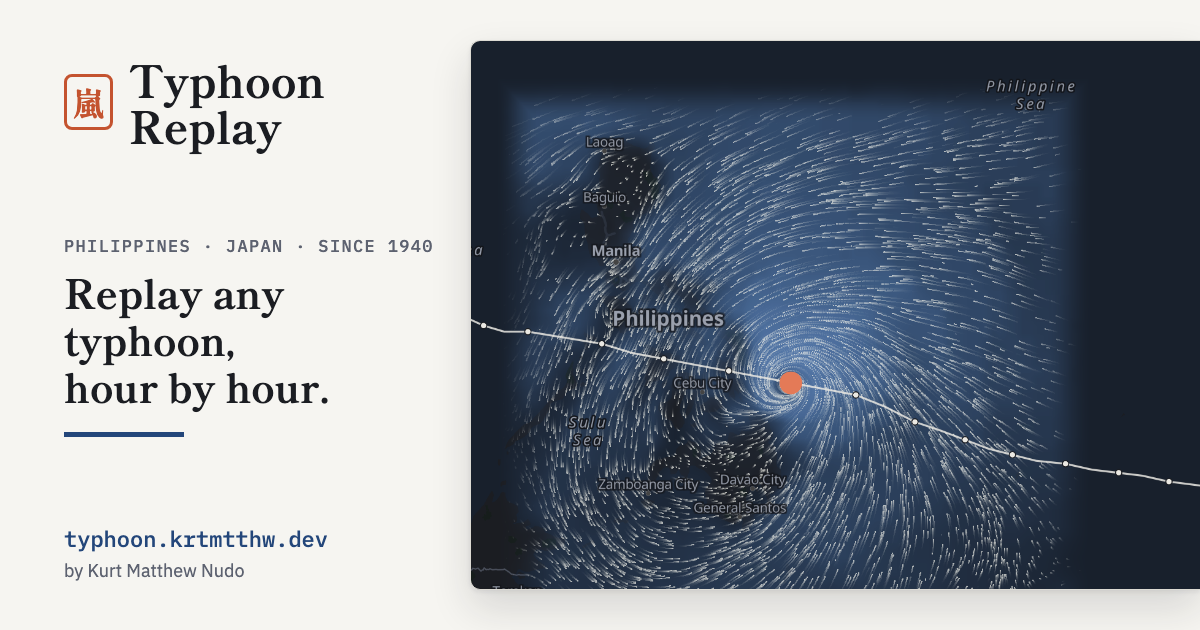
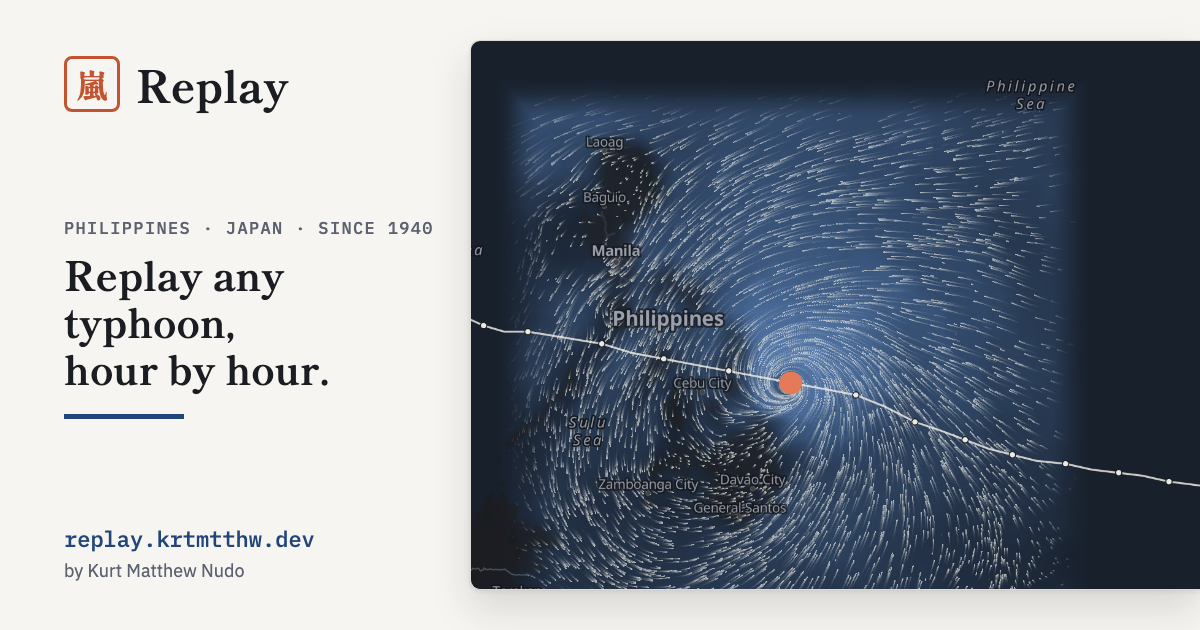
Replay: rename, new domain replay.krtmtthw.dev, Akari 0.7.0 unified Header
- The product is "Replay" everywhere visitors see it: header brand, page titles, share
  shells (og:site_name, og:title), About, the storm eyebrow, the boot error, READMEs and
  the dataset card. The seal stays 嵐.
- Canonical site is https://replay.krtmtthw.dev (config.json siteUrl, the config default
  and stamp-shells' fallback), so canonical, og:url, og:image and the sitemap follow.
- og-card.png is the new Replay share card.
- @abrycta/akari 0.7.0: Akari's Header unmodified (data-only brand and nav, portfolio
  link, EN/日本語, theme and contrast built in). The second phone nav row, the local
  portfolio link and the hand-placed toggles are gone. Router links render through a
  createLink anchor so only the Header's `current` sets aria-current: exactly one nav
  item is current (storm pages count as Storms) and the brand link never gets one.
- Storm pages: an unnamed storm's title and breadcrumb no longer repeat the year
  ("Unnamed storm · Feb 1940", not "… Feb 1940 1940").
- e2e: role-based header queries, header[data-akari-header] count 1, one current nav
  item, the new name, canonical and og tags.

Changed region(s): [[0.0308, 0.3317, 0.37, 0.6937], [0.0308, 0.0905, 0.2775, 0.2413], [0.0617, 0.8444, 0.2775, 0.8746]]

diff --git a/web/src/app/Shell.tsx b/web/src/app/Shell.tsx
@@ -1,8 +1,7 @@
-import { AppShell, ContrastToggle, Header, LangSwitch, Logo, ThemeToggle, useLang } from "@abrycta/akari/react";
+import { AppShell, Header, useLang } from "@abrycta/akari/react";
 import { Trans, useLingui } from "@lingui/react/macro";
-import { Link, useLocation } from "@tanstack/react-router";
-import { ArrowLeftIcon } from "lucide-react";
-import { type ReactNode, useEffect } from "react";
+import { createLink, Link, useLocation } from "@tanstack/react-router";
+import { type ComponentProps, type ReactNode, useEffect } from "react";
 
 import { Attribution, DataAsOf } from "@/features/dataset-info";
 import { buildInfo, formatBuildInfo } from "@/shared/lib/build-info";
@@ -18,82 +17,34 @@ function useGlobalParams() {
   }, [search.lang, setLang]);
 }
 
-/** Back to the author's portfolio, in the same tab. The visible text is the host; screen readers also hear whose site it is. */
-function PortfolioLink({ className }: { className?: string }) {
-  const { t } = useLingui();
-  return (
-    <a href={PORTFOLIO_URL} className={className} data-testid="portfolio-link">
-      <ArrowLeftIcon aria-hidden="true" className="size-3.5" />
-      {PORTFOLIO_HOST}
-      <span className="sr-only"> ({t`${AUTHOR}'s portfolio`})</span>
-    </a>
-  );
-}
-
-const NAV_LINK = "rounded-sm px-1 py-0.5 whitespace-nowrap hover:text-foreground [&.active]:text-foreground [&.active]:underline underline-offset-4";
-const PORTFOLIO_LINK = "items-center gap-1 rounded-sm px-1 py-0.5 text-xs whitespace-nowrap text-muted-foreground underline-offset-4 hover:text-foreground hover:underline";
+/**
+ * The anchor behind Akari's Header links: TanStack's <Link> marks every matching link aria-current="page"
+ * (the brand link too) and adds an "active" class, so the Header's own `current` flag wins here: exactly one nav item is current.
+ */
+const HeaderAnchor = createLink(({ current, ...props }: ComponentProps<"a"> & { current?: "page" }) => <a {...props} aria-current={current} />);
 
 export function Shell({ children }: { children: ReactNode }) {
   const { t } = useLingui();
   useGlobalParams();
-  // TanStack's <Link> sets aria-current="page" and the "active" class on the current section.
-  const links = (
-    <>
-      <Link to="/" activeOptions={{ exact: true }} className={NAV_LINK} data-testid="nav-home">
-        {t`Home`}
-      </Link>
-      <Link to="/storms" className={NAV_LINK}>
-        {t`Storms`}
-      </Link>
-      <Link to="/compare" className={NAV_LINK}>
-        {t`Compare`}
-      </Link>
-      <Link to="/town" className={NAV_LINK}>
-        {t`My town`}
-      </Link>
-      <Link to="/about" className={NAV_LINK}>
-        {t`About`}
-      </Link>
-      <Link to="/under-the-hood" className={NAV_LINK}>
-        {t`Under the hood`}
-      </Link>
-    </>
-  );
+  const path = useLocation({ select: (l) => l.pathname });
   return (
     <AppShell
       header={
-        <>
-          <Header
-            brand={
-              <>
-                {/* Accessible name "Typhoon Replay home": the visible wordmark plus a screen-reader suffix (label-in-name). */}
-                <Link to="/" activeOptions={{ exact: true }} className="rounded-sm" data-testid="brand-home">
-                  <Logo name="Typhoon Replay" glyph="嵐" size="sm" />
-                  <span className="sr-only"> {t({ message: "home", context: "brand link suffix" })}</span>
-                </Link>
-                {/* A labelled <nav> of our own (Akari's children slot renders an unlabelled one). Below md the row underneath takes over. */}
-                <nav aria-label={t`Main`} className="hidden items-center gap-4 text-sm text-muted-foreground md:flex">
-                  {links}
-                </nav>
-              </>
-            }
-            actions={
-              <>
-                <PortfolioLink className={`${PORTFOLIO_LINK} hidden md:inline-flex`} />
-                <ThemeToggle variant="compact" />
-                <ContrastToggle />
-                <LangSwitch />
-              </>
-            }
-          />
-          {/* Akari's header row does not wrap its nav, so on small screens the links get their own row. */}
-          <div className="flex flex-wrap items-center justify-between gap-x-4 gap-y-1 border-b border-border px-4 py-2 md:hidden">
-            <nav aria-label={t`Main`} className="flex flex-wrap gap-x-4 gap-y-1 text-sm text-muted-foreground">
-              {links}
-            </nav>
-            <PortfolioLink className={`${PORTFOLIO_LINK} inline-flex`} />
-          </div>
-        </>
+        <Header
+          brand={{ name: "Replay", glyph: "嵐", href: "/", srSuffix: t({ message: "home", context: "brand link suffix" }) }}
+          navLabel={t`Main`}
+          nav={[
+            { href: "/", label: t`Home`, current: path === "/" },
+            { href: "/storms", label: t`Storms`, current: path.startsWith("/storms") || path.startsWith("/storm/") },
+            { href: "/compare", label: t`Compare`, current: path.startsWith("/compare") },
+            { href: "/town", label: t`My town`, current: path.startsWith("/town") },
+            { href: "/about", label: t`About`, current: path.startsWith("/about") },
+            { href: "/under-the-hood", label: t`Under the hood`, current: path.startsWith("/under-the-hood") },
+          ]}
+          portfolioLink
+          languages
+          renderLink={({ href, "aria-current": current, ...p }) => <HeaderAnchor to={href} activeProps={{}} current={current} {...p} />}
+        />
       }
       footer={
         <footer className="border-t border-border">

diff --git a/web/e2e/navigation.spec.ts b/web/e2e/navigation.spec.ts
@@ -10,23 +10,28 @@ const PAGES = [
   { name: "town", path: "/town", current: "My town" },
   { name: "under the hood", path: "/under-the-hood", current: "Under the hood" },
   { name: "about", path: "/about", current: "About" },
-  { name: "storm", path: `/storm/${HAIYAN}?t=${PEAK}`, current: undefined },
+  { name: "storm", path: `/storm/${HAIYAN}?t=${PEAK}`, current: "Storms" },
   { name: "404", path: "/no/such/page", current: undefined },
 ];
 
 for (const p of PAGES) {
   test(`${p.name}: brand and Home go to /, portfolio links to krtmtthw.dev`, async ({ page }) => {
     await page.goto(p.path);
+    // Akari's unified Header, exactly once (a hand-rolled header would fail here).
+    await expect(page.locator("header[data-akari-header]")).toHaveCount(1);
     const header = page.getByRole("banner");
-    const nav = page.getByRole("navigation", { name: "Main" });
+    await expect(header).toHaveAttribute("data-akari-header", "");
+    const nav = header.getByRole("navigation", { name: "Main" });
     await expect(nav).toBeVisible();
 
-    const brand = header.getByRole("link", { name: "Typhoon Replay home" });
+    const brand = header.getByRole("link", { name: "Replay home" });
     await expect(brand).toHaveAttribute("href", "/");
     await expect(nav.getByRole("link", { name: "Home", exact: true })).toHaveAttribute("href", "/");
 
-    // aria-current marks exactly the active section (none on storm pages and the 404).
+    // aria-current marks exactly the active section (storm pages count as Storms; none on the 404), and only in the
+    // nav: the brand link never gets a second one from the router.
     const current = nav.locator('[aria-current="page"]');
+    await expect(header.locator('[aria-current="page"]')).toHaveCount(p.current ? 1 : 0);
     if (p.current) {
       await expect(current).toHaveCount(1);
       await expect(current).toHaveText(p.current);
@@ -37,7 +42,7 @@ for (const p of PAGES) {
     const portfolio = header.getByRole("link", { name: /krtmtthw\.dev/ });
     await expect(portfolio).toHaveAttribute("href", PORTFOLIO);
     await expect(portfolio).not.toHaveAttribute("target", /.+/); // same tab
-    await expect(portfolio).toHaveAccessibleName(/Kurt Matthew Nudo's portfolio/);
+    await expect(portfolio).toHaveAccessibleName(/Kurt's portfolio/);
     const footer = page.getByRole("contentinfo");
     await expect(footer).toContainText("A project by Kurt Matthew Nudo · krtmtthw.dev");
     await expect(footer.getByRole("link", { name: "Kurt Matthew Nudo · krtmtthw.dev" })).toHaveAttribute("href", PORTFOLIO);
@@ -99,12 +104,12 @@ test("every API blocked: the town page still works and has the header nav", asyn
 test("Japanese: home, breadcrumbs and portfolio links are translated", async ({ page }) => {
   await page.goto(`/storm/${HAIYAN}?lang=ja`);
   await expect(page.locator("html")).toHaveAttribute("lang", "ja");
-  await expect(page.getByRole("link", { name: "Typhoon Replay ホーム" })).toHaveAttribute("href", "/");
+  await expect(page.getByRole("banner").getByRole("link", { name: "Replay ホーム" })).toHaveAttribute("href", "/");
   const crumbs = page.getByRole("navigation", { name: "パンくずリスト" });
   await expect(crumbs.getByRole("link", { name: "ホーム", exact: true })).toHaveAttribute("href", "/");
   await expect(crumbs.getByRole("link", { name: "台風", exact: true })).toHaveAttribute("href", "/storms");
   await expect(page.getByRole("link", { name: "台風の一覧に戻る" })).toBeVisible();
-  await expect(page.getByRole("banner").getByRole("link", { name: /Kurt Matthew Nudo のポートフォリオ/ })).toHaveAttribute("href", PORTFOLIO);
+  await expect(page.getByRole("banner").getByRole("link", { name: /Kurtのポートフォリオ/ })).toHaveAttribute("href", PORTFOLIO);
   await expect(page.getByRole("contentinfo")).toContainText("制作: Kurt Matthew Nudo · krtmtthw.dev");
 });
 
@@ -139,7 +144,7 @@ test.describe("360 px", () => {
       await page.waitForLoadState("networkidle");
       const nav = page.getByRole("navigation", { name: lang === "ja" ? "メイン" : "Main" });
       await expect(nav.getByRole("link", { name: lang === "ja" ? "ホーム" : "Home", exact: true })).toBeVisible();
-      await expect(page.getByTestId("portfolio-link").locator("visible=true")).toHaveAttribute("href", PORTFOLIO);
+      await expect(page.getByRole("banner").getByRole("link", { name: /krtmtthw\.dev/ })).toBeVisible();
       const overflow = await page.evaluate(() => document.documentElement.scrollWidth - document.documentElement.clientWidth);
       expect(overflow).toBeLessThanOrEqual(0);
     });

diff --git a/web/e2e/smoke.spec.ts b/web/e2e/smoke.spec.ts
@@ -3,6 +3,11 @@ import { expect, HAIYAN, PEAK, RAI, test, waitForReplay } from "./fixtures";
 test("home: featured Haiyan replay, search and browse", async ({ page }) => {
   await page.goto("/");
   await expect(page.getByRole("heading", { level: 1 })).toHaveText("Replay any typhoon, hour by hour");
+  // Akari's unified Header (the same menu bar as every *.krtmtthw.dev app), with exactly one current nav item.
+  await expect(page.locator("header[data-akari-header]")).toHaveCount(1);
+  await expect(page.getByRole("banner").getByRole("link", { name: "Replay home" })).toHaveAttribute("href", "/");
+  await expect(page.getByRole("navigation", { name: "Main" }).locator('[aria-current="page"]')).toHaveCount(1);
+  await expect(page).toHaveTitle("Replay");
   await expect(page.getByLabel("Featured replay")).toBeVisible();
   await expect(page.getByTestId("replay-map").first()).toBeVisible();
   await expect(page.getByTestId("data-as-of")).toContainText("sample data");
@@ -97,15 +102,20 @@ test("errors: unknown storm and unknown page show the 404", async ({ page }) => 
 
 test("about lists sources and licences; Japanese UI", async ({ page }) => {
   await page.goto("/about?lang=ja");
-  await expect(page.getByRole("heading", { level: 1 })).toHaveText("Typhoon Replay について");
+  await expect(page.getByRole("heading", { level: 1 })).toHaveText("Replay について");
   await expect(page.getByRole("link", { name: /IBTrACS/ })).toBeVisible();
   await expect(page.locator("html")).toHaveAttribute("lang", "ja");
 });
 
 test("share shell carries Open Graph tags for crawlers", async ({ request }) => {
   const html = await (await request.get(`/storm/${HAIYAN}`)).text();
-  expect(html).toContain('<meta property="og:title" content="Haiyan (Yolanda) 2013 · Typhoon Replay"');
-  expect(html).toContain(`<link rel="canonical" href="https://typhoon.krtmtthw.dev/storm/${HAIYAN}"`);
+  expect(html).toContain('<meta property="og:title" content="Haiyan (Yolanda) 2013 · Replay"');
+  expect(html).toContain('<meta property="og:site_name" content="Replay"');
+  expect(html).toContain(`<link rel="canonical" href="https://replay.krtmtthw.dev/storm/${HAIYAN}"`);
+  expect(html).toContain(`<meta property="og:url" content="https://replay.krtmtthw.dev/storm/${HAIYAN}"`);
+  const home = await (await request.get("/")).text();
+  expect(home).toContain("<title>Replay</title>");
+  expect(home).toContain('<meta property="og:image" content="https://replay.krtmtthw.dev/og-card.png"');
   const sitemap = await (await request.get("/sitemap.xml")).text();
   expect(sitemap).toContain(`/storm/${HAIYAN}</loc>`);
 });

diff --git a/web/e2e/theme.spec.ts b/web/e2e/theme.spec.ts
@@ -7,10 +7,10 @@ import { expect, test } from "./fixtures";
 
 // Theme and contrast are shared across *.krtmtthw.dev through first-party cookies on krtmtthw.dev (Akari's
 // theme store + theme-init.js). .dev is HSTS-preloaded, so instead of a host mapping the browser asks for
-// https://typhoon.krtmtthw.dev/ and Playwright answers from the local preview, adding the production CSP
+// https://replay.krtmtthw.dev/ and Playwright answers from the local preview, adding the production CSP
 // from public/_headers. Cookies for the parent domain then behave exactly as in production.
 const PORT = Number(process.env.E2E_PORT ?? 4317);
-const ORIGIN = "https://typhoon.krtmtthw.dev";
+const ORIGIN = "https://replay.krtmtthw.dev";
 const CSP = /Content-Security-Policy: (.+)/.exec(
   readFileSync(resolve(import.meta.dirname, "../public/_headers"), "utf8"),
 )![1];
@@ -55,7 +55,7 @@ const read = (page: Page, key: "__csp" | "__beforeApp") =>
   page.evaluate((k) => (window as unknown as Record<string, unknown>)[k], key);
 
 test.describe("shared theme cookie (krtmtthw.dev)", () => {
-  // fixme: locally the proxied https://typhoon.krtmtthw.dev load stalls (HSTS / plain-HTTP upstream); verified against the live sites instead.
+  // fixme: locally the proxied https://replay.krtmtthw.dev load stalls (HSTS / plain-HTTP upstream); verified against the live sites instead.
   test.fixme();
   // Every request is proxied through Playwright, so page loads are slower than usual.
   test.describe.configure({ timeout: 150_000 });

diff --git a/web/src/routes/storm.$sid.tsx b/web/src/routes/storm.$sid.tsx
@@ -107,7 +107,9 @@ function StormPage() {
   const navigate = Route.useNavigate();
   const d = useStormDetail(sid);
   const stormName = useStormName();
-  useDocumentTitle(d.data ? `${stormName(d.data)} ${d.data.season}` : undefined);
+  // An unnamed storm's name already carries its start month and year ("Unnamed storm · Feb 1940"): no second year.
+  const titled = (x: NonNullable<typeof d.data>) => (stormLabel(x).kind === "unnamed" && x.startedAt ? stormName(x) : `${stormName(x)} ${x.season}`);
+  useDocumentTitle(d.data ? titled(d.data) : undefined);
   const onUrl = useCallback(
     (patch: Partial<ReplayUrlState>) => void navigate({ search: (prev) => ({ ...prev, ...patch }), replace: true, resetScroll: false }),
     [navigate],
@@ -149,10 +151,10 @@ function StormPage() {
 
   return (
     <div className="mx-auto grid max-w-[1120px] gap-8 px-4 py-8 md:py-12">
-      <StormBreadcrumb current={`${stormName(s)} ${s.season}`} />
+      <StormBreadcrumb current={titled(s)} />
       <header className="-mt-4 grid gap-2">
         <p className="font-mono text-xs tracking-[0.08em] text-muted-foreground uppercase">
-          {t`Typhoon replay`} · {s.season} · {s.sid}
+          Replay · {s.season} · {s.sid}
         </p>
         <h1 className="font-heading text-[clamp(28px,4vw,40px)] leading-tight font-semibold">
           <StormName s={s} />

diff --git a/web/src/app/BootError.tsx b/web/src/app/BootError.tsx
@@ -4,7 +4,7 @@ import { AUTHOR, PORTFOLIO_HOST, PORTFOLIO_URL } from "@/shared/lib/site";
 export function BootError({ error }: { error: unknown }) {
   return (
     <main className="mx-auto grid min-h-dvh max-w-xl content-center gap-3 p-6">
-      <h1 className="text-2xl font-semibold">Typhoon Replay could not start</h1>
+      <h1 className="text-2xl font-semibold">Replay could not start</h1>
       <p className="text-muted-foreground">The site configuration (config.json) did not load. Please reload the page.</p>
       <p lang="ja" className="text-muted-foreground">
         設定ファイルを読み込めませんでした。ページを再読み込みしてください。
@@ -13,7 +13,7 @@ export function BootError({ error }: { error: unknown }) {
       {/* Plain <a>: the router does not exist yet. "/" reloads the app from its home page. */}
       <p className="flex flex-wrap gap-x-4 gap-y-1">
         <a href="/" className="underline underline-offset-4">
-          Reload the Typhoon Replay home page <span lang="ja">(ホームを再読み込み)</span>
+          Reload the Replay home page <span lang="ja">(ホームを再読み込み)</span>
         </a>
         <a href={PORTFOLIO_URL} className="underline underline-offset-4">
           {AUTHOR} · {PORTFOLIO_HOST}

diff --git a/web/src/routes/about.tsx b/web/src/routes/about.tsx
@@ -11,7 +11,7 @@ function About() {
   const { t } = useLingui();
   useDocumentTitle(t`About`);
   return (
-    <Page eyebrow={t`About`} title={t`About Typhoon Replay`} lede={t`Where the data comes from, what it can and cannot tell you, and the licences that apply.`}>
+    <Page eyebrow={t`About`} title={t`About Replay`} lede={t`Where the data comes from, what it can and cannot tell you, and the licences that apply.`}>
       <div className="grid max-w-[68ch] gap-8">
         <section className="grid gap-2" aria-labelledby="h-data">
           <h2 id="h-data" className="text-xl font-semibold">

diff --git a/web/src/app/errors.tsx b/web/src/app/errors.tsx
@@ -6,7 +6,7 @@ import { useEffect } from "react";
 export function NotFound() {
   const { t } = useLingui();
   useEffect(() => {
-    document.title = `${t`Not found`} · Typhoon Replay`;
+    document.title = `${t`Not found`} · Replay`;
   }, [t]);
   return (
     <Page eyebrow="404" title={t`This page blew away`} lede={t`There is nothing at this address. The storm id may be wrong, or the storm is not in the archive yet.`}>

diff --git a/web/index.html b/web/index.html
@@ -13,7 +13,7 @@
     <link rel="preload" href="/config.json" as="fetch" crossorigin="anonymous" />
     <link rel="preconnect" href="https://huggingface.co" crossorigin />
     <meta name="description" content="Replay any typhoon that hit the Philippines or Japan, hour by hour." />
-    <title>Typhoon Replay</title>
+    <title>Replay</title>
   </head>
   <body>
     <div id="root"></div>

diff --git a/web/src/shared/ui/use-title.ts b/web/src/shared/ui/use-title.ts
@@ -2,7 +2,7 @@ import { useEffect } from "react";
 
 export function useDocumentTitle(title: string | undefined) {
   useEffect(() => {
-    if (title) document.title = `${title} · Typhoon Replay`;
-    else document.title = "Typhoon Replay";
+    if (title) document.title = `${title} · Replay`;
+    else document.title = "Replay";
   }, [title]);
 }

diff --git a/web/src/shared/config/config.ts b/web/src/shared/config/config.ts
@@ -25,7 +25,7 @@ const Data = z.object({
 });
 
 export const AppConfig = z.object({
-  siteUrl: z._default(z.string(), "https://typhoon.krtmtthw.dev"),
+  siteUrl: z._default(z.string(), "https://replay.krtmtthw.dev"),
   data: Data,
   backends: z.array(Backend).check(z.minLength(1)),
   defaultBackend: z._default(BackendId, "java"),

diff --git a/pipeline/dataset_card.md b/pipeline/dataset_card.md
@@ -2,7 +2,7 @@
 license: other
 license_name: mixed-attribution
 license_link: https://huggingface.co/datasets/permission-alluring/typhoon-replay/blob/main/README.md#licences
-pretty_name: Typhoon Replay
+pretty_name: Replay
 language:
 - en
 - ja
@@ -20,10 +20,10 @@ configs:
 {{CONFIGS}}
 ---
 
-# Typhoon Replay
+# Replay
 
 Western North Pacific typhoons that affected the **Philippines or Japan since 1940**, prepared for the
-[Typhoon Replay](https://github.com/abrycta/typhoon-replay) web app: a storm catalogue with best tracks,
+[Replay](https://replay.krtmtthw.dev) web app ([source](https://github.com/abrycta/typhoon-replay)): a storm catalogue with best tracks,
 landfalls, PAGASA and JMA names, "typhoons that hit my town" exposure for every Philippine city or
 municipality and every Japanese municipality, and hour-by-hour ERA5 wind, gust, pressure and rain fields
 that follow each storm.
@@ -100,7 +100,7 @@ ARCO-ERA5 on Google Cloud for months NCAR has not published yet. `manifest.json`
 
 For each place and storm whose hourly centre came within 500 km of the place boundary: closest approach
 (km, and when), hours within 50/100/200/300/500 km, and the best-track sustained wind and gust (kt) while
-the centre was within each radius. This is what the Typhoon Replay API serves at
+the centre was within each radius. This is what the Replay API serves at
 `GET /v1/places/{placeId}/storms`.
 
 ## Sources and licences {#licences}
